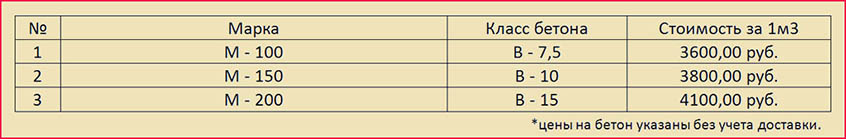
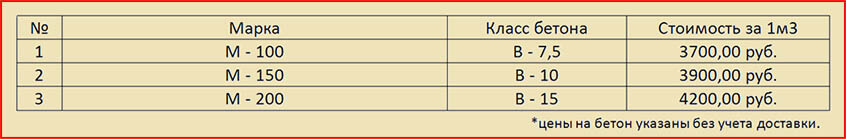
008-prices-have-changes-plus-100-rub

Changed region(s): [[0.0, 0.0, 1.0, 1.0]]

diff --git a/README.md b/README.md
@@ -20,3 +20,6 @@
 <p>I spread the results:</p>
 <p>Initially, the download speed was not high = 69 (for mobile), and 58 (for stationary) monitors.</p>
 <p>Here's the result: Google-PageSpeed rated the download speed as 90 (for mobile) and 94 (for desktop).</p>
+</br>
+<h3>Changes for 2017 September 20</h3>
+<p>Prices have changed in the price list</p>
